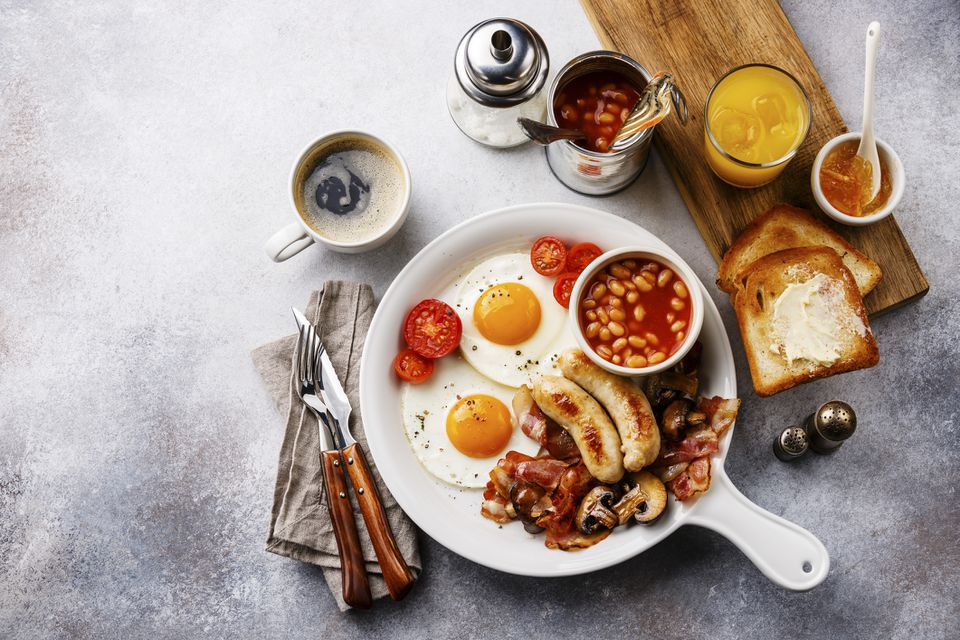
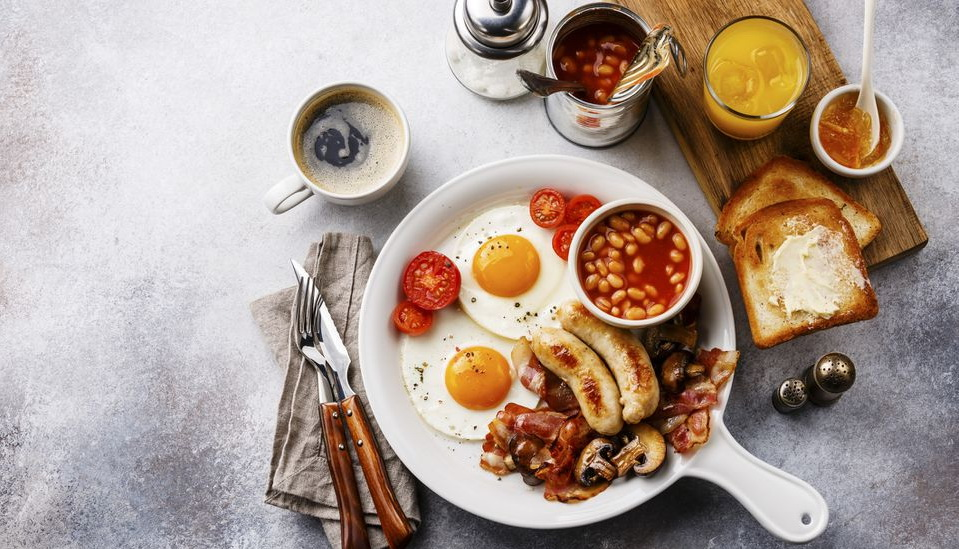
..
...

diff --git a/projectPsit/breakfast.html b/projectPsit/breakfast.html
@@ -52,13 +52,13 @@
         </div>
         <div class="row">
             <div class="col-md-4" style="padding:15px 8px;">
-                <img src="images.jpg" class="img-fluid img-thumbnail" width="400" height="300"/>
+                <img src="breakfast3.jpg" class="img-fluid img-thumbnail" width="400" height="300"/>
             </div>
             <div class="col-md-4" style="padding:15px 8px;">
-                    <img src="images2.jpg" class="img-fluid img-thumbnail" width="400" height="300"/>
+                    <img src="breakfast1.jpg" class="img-fluid img-thumbnail" width="400" height="300"/>
             </div>
             <div class="col-md-4" style="padding:15px 8px;">
-                    <img src="images1.jpg" class="img-fluid img-thumbnail" width="400" height="300"/>
+                    <img src="breakfast4.jpg" class="img-fluid img-thumbnail" width="400" height="400"/>
             </div>
         </div>
         <hr width = "80%" size = "3" color="black">
@@ -124,6 +124,13 @@
                                 </a>
                             </div>
                         </div>
+                </div>
+            </div>
+            <div class="row">
+                <div class="col-md" style="padding:15px 30px;">
+                    <a href="https://projectpsit2019.web.app/first.html" class="btn btn-primary"
+                            style="background-color: sienna; font-family: monospace;">Back
+                    </a>
                 </div>
             </div>
         </div>

diff --git a/projectPsit/dinner.html b/projectPsit/dinner.html
@@ -5,7 +5,7 @@
     <meta charset="UTF-8">
     <meta name="viewport" content="width=device-width, initial-scale=1.0">
     <meta http-equiv="X-UA-Compatible" content="ie=edge">
-    <title>Document</title>
+    <title>dinner</title>
     <link rel="stylesheet" href="css/bootstrap.min.css">
     </link>
     <style>
@@ -128,6 +128,13 @@
                                 </a>
                             </div>
                         </div>
+                </div>
+            </div>
+            <div class="row">
+                <div class="col-md" style="padding:15px 30px;">
+                    <a href="https://projectpsit2019.web.app/first.html" class="btn btn-primary"
+                            style="background-color: sienna; font-family: monospace;">Back
+                    </a>
                 </div>
             </div>
         </div>

diff --git a/projectPsit/lunch.html b/projectPsit/lunch.html
@@ -127,13 +127,13 @@
                 </div>
             </div>
             <div class="row">
-                <div class="col-md">
+                <div class="col-md" style="padding:15px 30px;">
                     <a href="https://projectpsit2019.web.app/first.html" class="btn btn-primary"
                             style="background-color: sienna; font-family: monospace;">Back
                     </a>
                 </div>
             </div>
-        </div>
+        </div> 
 </body>
 
 </html>

diff --git a/projectPsit/test.py b/projectPsit/test.py
@@ -1,4 +1,5 @@
 """test manu"""
+import webbrowser
 import random
 def find(must):
     ans = must[random.randint(0,2)]
@@ -13,17 +14,24 @@ def main():
     lis3 = ["1111", "22222", "33333"]
     lis4 = ["987654", "8765", "23456"]
     body = weight / (tall/100)**2
-    print(body)
     if body <= 20:
         print("Don't good")
+        url(str("Don't good"))
     elif 20 < body <= 22:
         print(find(lis1))
+        url(str(find(lis1)))
     elif 22 < body <= 24:
         print(find(lis2))
+        url(str(find(lis2)))
     elif 24 < body <= 26:
         print(find(lis3))
+        url(str(find(lis3)))
     elif 26 < body <= 28:
         print(find(lis4))
+        url(str(find(lis4)))
     else:
         print("Fat")
+    def url(para):
+        """call url"""
+        webbrowser.open("https://projectpsit2019.web.app/lunch.html"+"nember="para)
 main()
